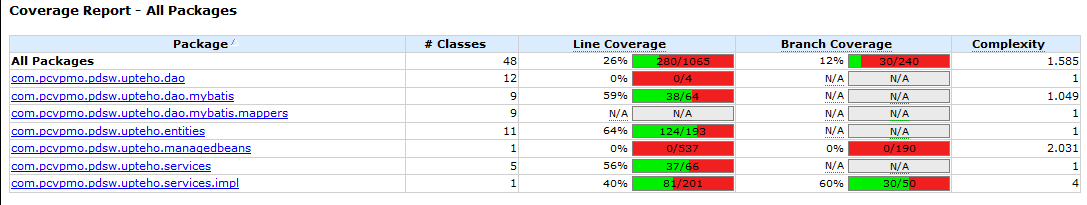
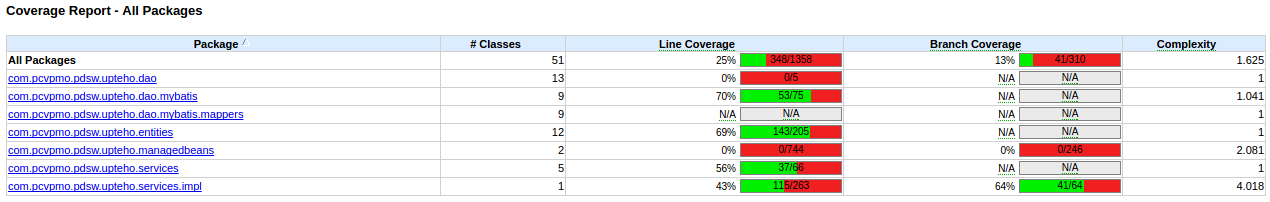
Actualizado README.md - Cubrimiento

Changed region(s): [[0.0, 0.1485, 1.0, 0.9802], [0.0, 0.0297, 0.2429, 0.0891]]

diff --git a/README.md b/README.md
@@ -18,19 +18,19 @@ INTEGRANTES:
 ## DESCRIPCIÓN DEL PRODUCTO
 
 El proyecto fue planteado como una solución para el registro de los programas de Postgrado, manejados por la Unidad de Proyectos de la Escuela Colombiana de Ingeniería Julio Garavito.  
-Su propósito principal es el de poder mantener un control más organizado de las planeaciones que se llevan y se hacen para la programación semanal de los cursos, automatizando el proceso actual, permitiendo un manejo de registros historicos a largo plazo.  
+Su propósito principal es el de poder mantener un control más organizado de las planeaciones que se llevan y se hacen para la programación semanal de los cursos, automatizando el proceso actual, permitiendo un manejo de registros historicos a largo plazo.
 
 La función principal del proyecto permite ver un reporte de programación semestral, detallando las diferentes materias inscritas, con sus datos respectivos.
-![](img/ReporteProgramacion.PNG?raw=true)  
+![](img/ReporteProgramacion.PNG?raw=true)
 
 El botón de consultar permite conocer los datos especificos para las sesiones existentes de la materia seleccionada, con la opcion de agregar una nueva sesion, acorde al horario del profesor.
-![](img/ProgramarSesion.PNG?raw=true)  
+![](img/ProgramarSesion.PNG?raw=true)
 
 Se tiene un reporte de salones, el cual permite ver que tipo de salones de cada tipo están disponibles en diferentes fechas, permitiendo buscar por periodo.
-![](img/ReporteSalones.PNG?raw=true)  
+![](img/ReporteSalones.PNG?raw=true)
 
 También hay un reporte de las Materias, organizadas por el programa.
-![](img/ReporteMaterias.PNG?raw=true)  
+![](img/ReporteMaterias.PNG?raw=true)
 
 Para la programación de los cursos, se tiene su registro propio, al registrar un curso, este aparece disponible en el reporte de programación, donde es posible definir sus sesiones.
 ![](img/ProgramarCurso.PNG?raw=true)
@@ -60,23 +60,23 @@ El modelo se encuentra seccionado en sus partes más importantes
 ### Tecnologías utilizadas
 
 #### Apache Shiro
-![](img/ApacheShiro.PNG?raw=true)  
+![](img/ApacheShiro.PNG?raw=true)
 Un poderoso y sencillo Framework de seguridad de Java. Cuenta con funciones de autenticación, autorización, criptografía, y manejo de sesiones. Es versatil y permite asegurar desde aplicaciones móviles hasta grandes aplicaciones web. [Página oficial.](https://shiro.apache.org/)
 
 #### PrimeFaces
-![](img/PrimeFaces.PNG?raw=true)  
+![](img/PrimeFaces.PNG?raw=true)
 Una biblioteca de JavaServerFaces que facilita el desarrollo de aplicaciones web con una gran variedad de componentes disponibles para diseño web. [Página oficial.](https://www.primefaces.org/)
 
 #### Google Guice
-![](img/GoogleGuice.png?raw=true)  
+![](img/GoogleGuice.png?raw=true)
 Framework de inyección de dependencias de Java, la cual pretende evitar el uso de fabricas, al automatizarlas haciendo que el código no sea dependiente de estas, y que sea más flexible en su edicion, manejo de pruebas y reusabilidad. [Repositorio oficial.](https://github.com/google/guice)
 
 #### Postgres SQL
-![](img/Postgres.PNG?raw=true)  
+![](img/Postgres.PNG?raw=true)
 Sistema de gestión de bases de datos objeto-relacionales, de código abierto y el más potente del mercado. [Página oficial.](https://www.postgresql.org/)
 
 ### Aplicación
-![](img/Inicio.PNG?raw=true)  
+![](img/Inicio.PNG?raw=true)
 La aplicación se puede acceder haciendo [click aqui.](https://up-teho.herokuapp.com/UnidadProyectos/index.xhtml "UP-TEHO")
 
 ## DESCRIPCION DEL PROCESO
@@ -89,13 +89,13 @@ Para el trabajo del proyecto, se utilizó la funcionalidad de github conocida co
 El backlog del proyecto puede accederse haciendo [click aqui.](https://trello.com/b/bZFNLwbJ/2017-1-proypdsw-pcvpmo "Backlog UP-TEHO")
 
 ### Release Burndown Chart
-![](img/BurndownChart.PNG?raw=true)  
+![](img/BurndownChart.PNG?raw=true)
 Las historias de usuario realizadas fueron:
 * Generar reporte de programación semestral
 * Generar reporte de salones
 * Registrar materia
 * Programar materia
-* Generar horario de profesor  
+* Generar horario de profesor
 
 Los faltantes fueron:
 * Generar reporte de recursos
@@ -112,7 +112,7 @@ Los faltantes fueron:
 ![](img/BurndownS1.PNG?raw=true)
 
 #### Reporte GIT
-![](img/GraficaS1.PNG?raw=true)  
+![](img/GraficaS1.PNG?raw=true)
 
 Para este primer Sprint se dedicó mucho tiempo al diseño de la base de datos y al final se tuvo que trabajar apresuradamente para terminar los requerimientos, fue una etapa de adaptación al estilo de trabajo del SCRUM y nos dejó ver que debiamos mejorar para los siguientes Sprints.
 
@@ -125,7 +125,7 @@ Para este primer Sprint se dedicó mucho tiempo al diseño de la base de datos y
 ![](img/BurndownS2.PNG?raw=true)
 
 #### Reporte GIT
-![](img/GraficaS2.PNG?raw=true)  
+![](img/GraficaS2.PNG?raw=true)
 
 En este Sprint el trabajo distribuido entre el equipo fue mejor que en el anterior, pues cada persona estuvo a cargo de diferentes funcionalidades, lo cual permitió un trabajo más eficaz y arduo entre todos.
 
@@ -138,7 +138,10 @@ En este Sprint el trabajo distribuido entre el equipo fue mejor que en el anteri
 ![](img/BurndownS3.PNG?raw=true)
 
 #### Reporte GIT
-![](img/GraficaS2.PNG?raw=true)  
+![](img/GraficaS2.PNG?raw=true)
+
+### Reporte de pruebas
+![](img/tests.png?raw=true)
 
 ### Reporte de cubrimiento
 ![](img/Cubrimiento.PNG?raw=true)
